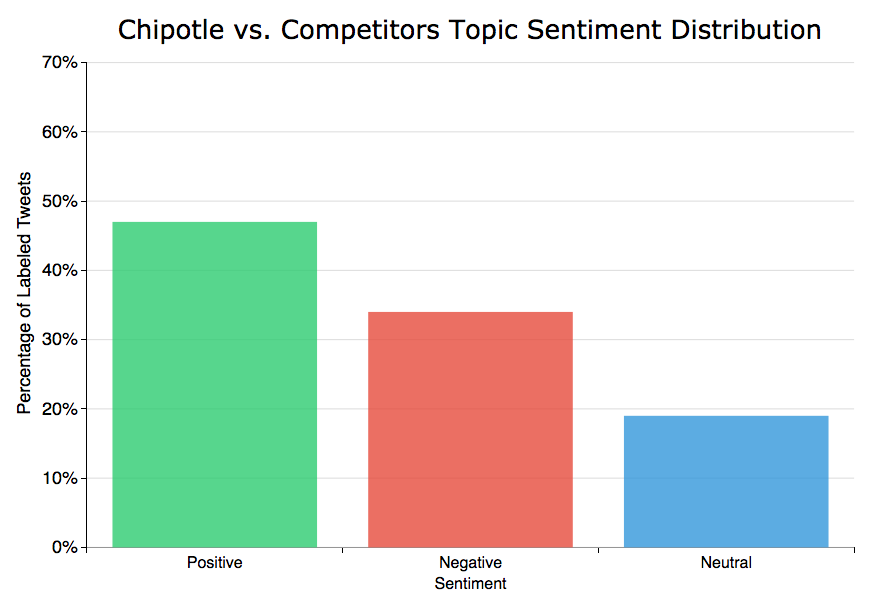
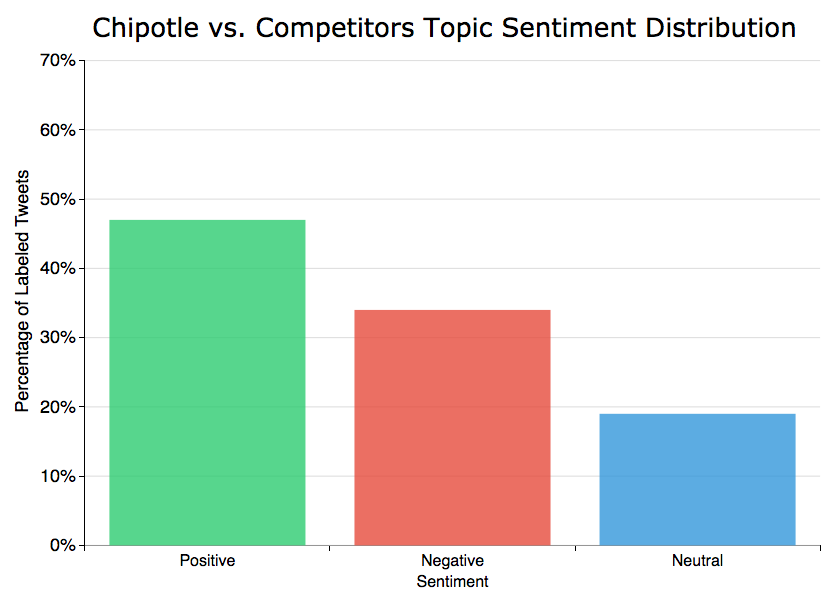
add chipotle plots to readme

Changed region(s): [[0.0, 0.0903, 0.9905, 0.9933], [0.0929, 0.0301, 0.9595, 0.0903]]

diff --git a/plot_data/cmg_comp.html b/plot_data/cmg_comp.html
@@ -46,6 +46,7 @@
   var myChart = new dimple.chart(svg, data);
   var x = myChart.addTimeAxis("x", "Date");
   var y = myChart.addMeasureAxis("y", "Data");
+  var mySeries = myChart.addSeries('Description', dimple.plot.line);
   y.title = "Prevalence of Topic / Stock Price Change";
   y.tickFormat = ",%";
   x.dateParseFormat = "%m/%d/%Y";
@@ -57,9 +58,9 @@
   y.overrideMax = 0.45;
   x.fontSize = "16px";
   y.fontSize = "18px";
+  mySeries.lineWeight = "5";
 
 
-  myChart.addSeries('Description', dimple.plot.line);
 
   myChart.defaultColors = [
       new dimple.color("#3498db"), // blue

diff --git a/plot_data/mcd_shamrock_sent.html b/plot_data/mcd_shamrock_sent.html
@@ -71,13 +71,13 @@
 
 
           svg.append("text")
-            .attr("x", (width / 1.59))
+            .attr("x", (width / 1.67))
             .attr("y", 0 + (margin / 3))
             .attr("text-anchor", "middle")
-            .style("font-size", "28px")
+            .style("font-size", "26px")
             .style("font-family", "verdana")
             .style("text-decoration", "bold")
-            .text("McDonalds Shamrock Shake Topic Sentiment Distribution");
+            .text("McDonald's Shamrock Shake Topic Sentiment Distribution");
 
 
 

diff --git a/plot_data/cmg_comp_sent.html b/plot_data/cmg_comp_sent.html
@@ -70,7 +70,7 @@
 
 
           svg.append("text")
-            .attr("x", (width / 1.65))
+            .attr("x", (width / 1.75))
             .attr("y", 0 + (margin / 3))
             .attr("text-anchor", "middle")
             .style("font-size", "26px")

diff --git a/README.md b/README.md
@@ -9,7 +9,7 @@ Everyday, millions of people share their opinions on products and brands.  The g
 * Are some aspects of our brand held in higher regard than others? (i.e. food, service, experience, etc.)
 * Is the conversation a short blip or a persistent trend?
 
-The focus of this project is to answer the questions above for three popular food and beverage brands: Chipotle Mexican Grill, Starbucks, and McDonalds.  
+The focus of this project is to answer the questions above for three popular food and beverage brands: Chipotle Mexican Grill, Starbucks, and McDonald's.  
 
 
 ## Modeling Methodology
@@ -23,7 +23,7 @@ The final models I settled on are:
 
 ## Insights
 
-I collected tweets for over a month, Jan. 27 through Feb. 28 of 2017, with the key words "Chipotle", "McDonalds", and "Starbucks".  This section details some of my more interesting findings from modeling the tweets surrounding these brands.
+I collected tweets for over a month, Jan. 27 through Feb. 28 of 2017, with the key words "Chipotle", "McDonald's", and "Starbucks".  This section details some of my more interesting findings from modeling the tweets surrounding these brands.
 
 ### Starbucks
 #### Refugee Hiring Announcement
@@ -62,3 +62,28 @@ Here is how Chipotle stacks up:
 This next plot shows the prevalence of this topic overtime.  It bounces around a little bit but tends to fall between 5 and 10 percent.
 
 ![Chipotle time-series](/final_plots/cmg_comp.png)
+
+In this instance, my model provides a framework for companies to track their public opinion in relation to their competitors.
+
+### McDonald's
+#### McDonald's Shamrock Shake Release
+
+Each year McDonald's releases the Shamrock Shake about a month before St. Patricks Day.  This year, along with the release of the shake, McDonald's also released a special edition "innovative" straw for maximum shake enjoyment.  
+
+This word cloud shows words frequently used in tweeting about the Shamrock Shake / straw topic.
+
+![McDonald's Shamrock](/final_plots/ae_mcdonalds6_cloud.png)
+
+Next we see that the sentiment distribution is mostly positive with some negative.  Most of the negative tweets that fall into this topic are people making jabs at McDonald's for calling a straw innovative.
+
+![McDonald's sentiment](/final_plots/mcd_shamrock_sent.png)
+
+Lastly, we'll look at the topic prevalence over time.  Notice that hype begins to build a few days ahead of the release, and that it lasts for a little over a week afterwards.
+
+![McDonald's time-series](/final_plots/mcd_shamrock.png)  
+
+## Summary
+
+The framework laid out here shows how companies can track topic prevalence and sentiment around events ranging from advertising campaigns and product releases to public relations issues.
+
+If you would like to contact me about the project or data science in general, please email me at **blemieux4@gmail.com**
